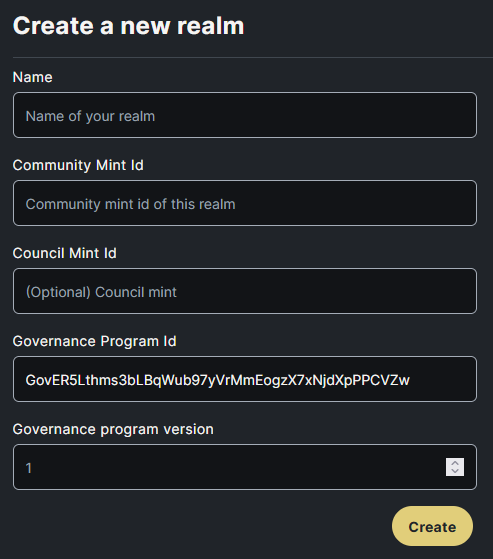
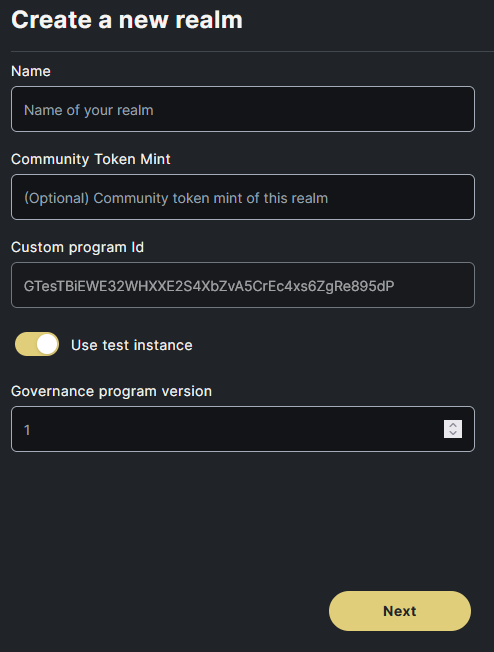
Updated bespoke realm docs (#5)

diff --git a/docs/multisig-realm/create-multisig-realm/bespoke-realm.md b/docs/multisig-realm/create-multisig-realm/bespoke-realm.md
@@ -8,65 +8,41 @@ sidebar_position: 3
 
 When you choose to create a bespoke realm, we assume that you're an advanced user who'll create all the realm artifacts by yourself so, we present you a more complex and flexible form than the multisig realm.
 
-![multisigbespokeformempty](/img/multisig-realm/multisig-bespoke-empty.png)
-
 :::tip
-Note that this form will be split in the future to make the process simpler.
+If you want to generate the artifacts separately, you can use the [Devtools](./devtools)
 :::
 
 So let's create a Bespoke Realm:
 
 ---
 
-### Generate the Artifacts
+## Creating the Realm
 
-If you really want to generate the artifacts to your realm and create a Custom realm but you don't really know what to do, for a limited time, we have an available helper that creates all the artifacts for you, but doesn't deploy any governance program, then if you want a custom governance program you'll need to deploy it by yourself.
+With your artifacts in hand, you should fill the form as follows. The bespoke mode is split in 3 steps, let's do one by one:
 
-1. Click [here](https://solana-labs.github.io/oyster-gov/#/devtools) to access the `devtools`
+### Step 1: Name, Community and Program
 
-2. In the devtools, connect your wallet clicking `Connect` in the top right corner of the page, the wallet will pop up just like is seen [here](./realm-wizard).
+In the first step, you'll need to fill the basic configuration for your realm
 
-![devtoolsconnect](/img/multisig-realm/devtools-connect.png)
+![multisigbespoke](/img/multisig-realm/multisig-bespoke-empty.png)
 
-:::tip
-If you want to change the Network, click in the gear icon and select the desired network.
-:::
-
-3. With your wallet connected, you can now click on Generate
-
-![devtoolsgenerate](/img/multisig-realm/devtools-generate.png)
-
-This step will generate the artifacts for you, so it will create transactions to be signed. You must approve all the transactions
-in order to complete this step. You need to wait until the transaction is completed, as it can take a while so don't close the page until
-the transaction is complete or result in an error.
-
-4. Note that the devtools spits 4 different addresses. Save it somewhere safe. By now we'll only need the `Council Mint` and `Community Mint`
-
-![devtoolsartifacts](/img/multisig-realm/devtools-artifacts.png)
-
----
-
-### Creating the Realm
-
-With your artifacts in hand, you should fill the form as follows:
-
-1.**Name your realm:** you don't need to use the devtools name but bear in mind that if you choose a name that already exists, the transaction will fail.
+1. **Name your realm:** you don't need to use the devtools name but bear in mind that if you choose a name that already exists, the transaction will fail.
 2. **Place the `Community Mint Id`** and note that some more fields will appear in the screen.
 
    1. **Min community tokens to create governance:** this field represents that to create a governance, there should be at least `N%` of the max supply of the tokens minted, being 1% the default value.
    2. **Community mint supply factor:** the vote weight of a community token. If it is set to 1, each community token will represent 1 vote.
 
-![multisigbespokecomm](/img/multisig-realm/multisig-bespoke-community.png)
-
-3. **Place the `Council Mint Id`**. The council token is a token that will be distributed to the realm's team. It's usually necessary if your realm has no community and needs some level of governance.
-
 :::tip
-This step is optional. You don't need council mint to create a bespoke realm.
+If you don't fill this field, the community token will be generated by the app
 :::
 
-![multisigbespokecomm](/img/multisig-realm/multisig-bespoke-council.png)
+![multisigbespokecomm](/img/multisig-realm/multisig-bespoke-community.png)
 
 4.**The `Governance Program Id`** field represents the Governance Program of the organization. If a Realm wants full control of their realms, they should deploy their own governance program. But to facilitate, Solana provides a default Governance program ID `GovER5Lthms3bLBqWub97yVrMmEogzX7xNjdXpPPCVZw` so, if you don't want to deploy a governance program now, it is possible to use this instance.
+
+:::tip
+Checking `Use Test Instance` will change the program id to `GTesTBiEWE32WHXXE2S4XbZvA5CrEc4xs6ZgRe895dP` and run in a test program instead of the main program id. This is recommended if you are deploying a testing realm.
+:::
 
 ![multisigbespokegov](/img/multisig-realm/multisig-bespoke-govtoken.png)
 
@@ -74,6 +50,31 @@ This step is optional. You don't need council mint to create a bespoke realm.
 
 ![multisigbespokeversion](/img/multisig-realm/multisig-bespoke-programversion.png)
 
-6. **Click create, sign the transactions** and then you'll be redirected to the realm's page
+6. **Click next to proceed to the [next step](#step-2)**.
+
+---
+
+### Step 2: The Council
+
+The second step will guide you to setup the council settings. This step is optional and you can uncheck `Use Council` so you won't have a council for your realm.
+
+1. **Place the `Council Mint Id`** The council token is a token that will be distributed to the realm's team. It's usually necessary if your realm has no community and needs some level of governance.
+
+:::tip
+This step is optional, you don't need council mint to create a bespoke realm but if you want a council, but doesn't have a token mint id, let the field empty and we'll generate for you.
+:::
+
+![multisigbespokecomm](/img/multisig-realm/multisig-bespoke-council.png)
+
+2. **Click next to proceed to the [next step](#step-3)**.
+
+### Step 3: The Summary
+
+The third step will show a summary of all the data you have put in the form. Check to see if everything is alright 
+
+![multisigbespokecomm](/img/multisig-realm/multisig-bespoke-summary.png)
+
+
+**Click create, sign the transactions** and then you'll be redirected to the realm's page.
 
 ![multisigbespokerealmspage](/img/multisig-realm/multisig-bespoke-realms-page.png)

diff --git a/docs/multisig-realm/create-multisig-realm/devtools.md b/docs/multisig-realm/create-multisig-realm/devtools.md
@@ -1,0 +1,39 @@
+---
+sidebar_position: 4
+---
+
+# Devtools: Artifacts Helper
+
+The artifacts helper is part of our ecosystem as a tool to create generic artifacts to your realm.
+
+:::tip
+You don't need to generate artifacts anymore as our platform does it automatically.
+:::
+
+### Generate the Artifacts
+
+If you really want to generate the artifacts to your realm and create a Custom realm but you don't really know what to do, for a limited time, we have an available helper that creates all the artifacts for you, but doesn't deploy any governance program, then if you want a custom governance program you'll need to deploy it by yourself.
+
+1. Click [here](https://solana-labs.github.io/oyster-gov/#/devtools) to access the `devtools`
+
+2. In the devtools, connect your wallet clicking `Connect` in the top right corner of the page, the wallet will pop up just like is seen [here](./realm-wizard).
+
+![devtoolsconnect](/img/multisig-realm/devtools-connect.png)
+
+:::tip
+If you want to change the Network, click in the gear icon and select the desired network.
+:::
+
+3. With your wallet connected, you can now click on Generate
+
+![devtoolsgenerate](/img/multisig-realm/devtools-generate.png)
+
+This step will generate the artifacts for you, so it will create transactions to be signed. You must approve all the transactions
+in order to complete this step. You need to wait until the transaction is completed, as it can take a while so don't close the page until
+the transaction is complete or result in an error.
+
+4. Note that the devtools spits 4 different addresses. Save it somewhere safe. By now we'll only need the `Council Mint` and `Community Mint`
+
+![devtoolsartifacts](/img/multisig-realm/devtools-artifacts.png)
+
+---
